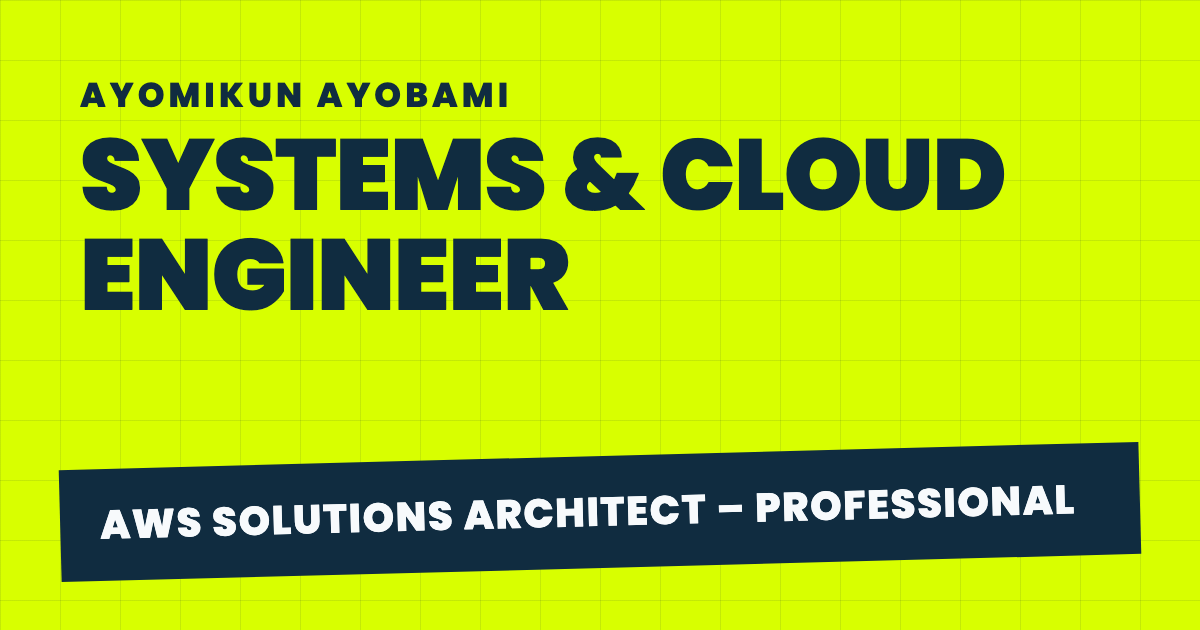
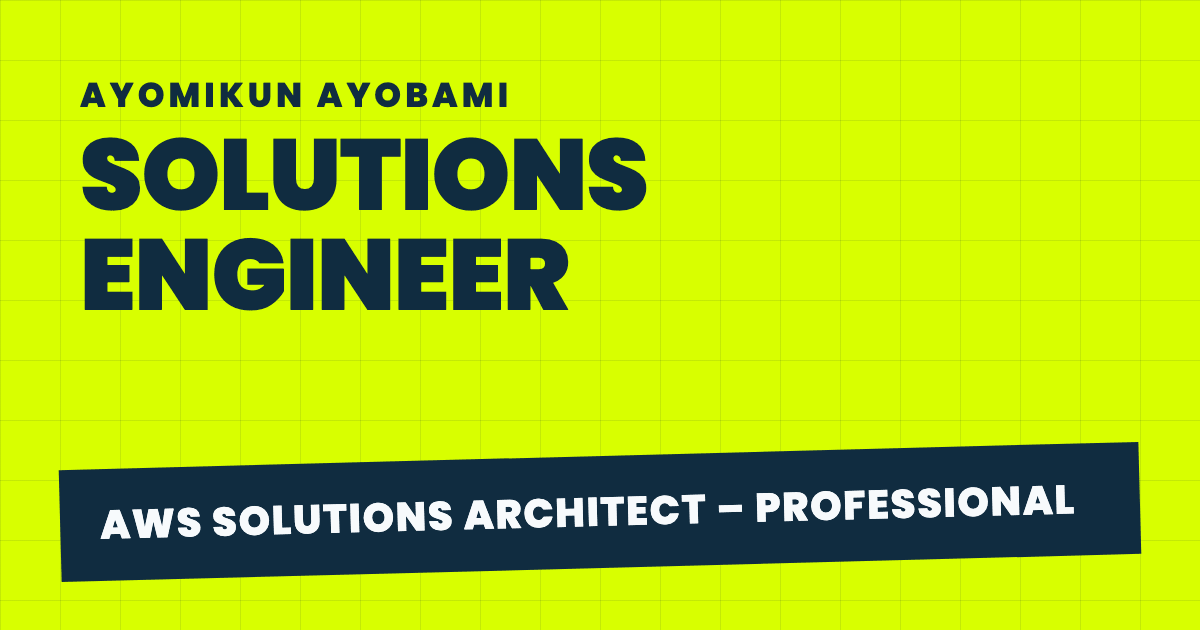
content: position the site around the Solutions Engineer role

Changed region(s): [[0.1233, 0.2111, 0.8633, 0.3317]]

diff --git a/src/content/copy.ts b/src/content/copy.ts
@@ -3,7 +3,7 @@ import type { SectionId } from './types';
 
 // Every user-facing string lives here so it can be edited without touching components.
 // Name, title, email and links come from SITE and are not repeated.
-export type FocusId = 'cloud' | 'systems' | 'platform' | 'backend';
+export type FocusId = 'solutions' | 'cloud' | 'systems' | 'platform' | 'backend';
 export type ProofId = 'production' | 'certs' | 'incidents' | 'code' | 'clients';
 export type DiagramNodeId =
   | 'camera'
@@ -17,11 +17,11 @@ export type DiagramNodeId =
 
 export const COPY = {
   seo: {
-    description: `${SITE.name} is a remote Systems and Cloud Engineer building reliable AWS and Linux infrastructure.`,
+    description: `${SITE.name} is a remote Solutions Engineer who designs AWS architectures for clients and builds them, from Terraform to production backends.`,
   },
 
   hero: {
-    headline: 'I design and run the infrastructure behind real products.',
+    headline: 'I turn business problems into AWS architectures, then build them.',
     credentialLine:
       'AWS Solutions Architect – Professional · Solution Engineer at an AWS Advanced Tier Partner',
     certBadgeLabel: 'Certified',
@@ -58,6 +58,7 @@ export const COPY = {
     focus: {
       question: 'What are you hiring for?',
       options: {
+        solutions: 'Solutions Engineer / pre-sales',
         cloud: 'Cloud infrastructure',
         systems: 'Systems & networking',
         platform: 'Platform / DevOps',
@@ -83,6 +84,8 @@ export const COPY = {
   // The result pitch is one focus line plus one proof line.
   pitch: {
     focus: {
+      solutions:
+        'At an AWS Advanced Tier Partner I design AWS architectures for customers, estimate their running costs and write the technical proposals (20+ so far). Then I build what I propose: Terraform across 20+ production client deployments and a full camera-to-cloud platform.',
       cloud:
         'I run AWS infrastructure as code: Terraform and CloudFormation across 20+ production client deployments, and a full camera-to-cloud platform on ECS Fargate, S3, Kinesis Video Streams and Rekognition.',
       systems:
@@ -106,7 +109,7 @@ export const COPY = {
   },
 
   mascot: {
-    intro: "Hey! Hiring for cloud? Let me show you what I've built.",
+    intro: "Hey! Hiring a Solutions Engineer? Let me show you what I've built.",
     focus: 'Two quick questions and I will line up the right proof.',
     proof: 'Nearly there. What would make you pick up the phone?',
     result: 'That is your match. The rest of the page is right below.',

diff --git a/tests/unit/quiz.test.ts b/tests/unit/quiz.test.ts
@@ -11,16 +11,23 @@ import {
   type ProofPreference,
 } from '../../src/lib/quiz';
 
-const FOCUSES: HiringFocus[] = ['cloud', 'systems', 'platform', 'backend'];
+const FOCUSES: HiringFocus[] = ['solutions', 'cloud', 'systems', 'platform', 'backend'];
 const PROOFS: ProofPreference[] = ['production', 'certs', 'incidents', 'code', 'clients'];
 
 test('incidents for cloud leads with Olympus then experience', () => {
   expect(orderSections({ focus: 'cloud', proof: 'incidents' })).toEqual(
-    ['hero','olympus-vision','experience','careomni','projects','certifications','skills','writing','testimonials','contact']);
+    ['hero','olympus-vision','experience','careomni','testimonials','certifications','projects','skills','writing','contact']);
 });
 test('clients puts the testimonials straight after the hero, then experience', () => {
   expect(orderSections({ focus: 'platform', proof: 'clients' }).slice(0, 3)).toEqual(['hero', 'testimonials', 'experience']);
   expect(parseAnswers('?for=platform&proof=clients')).toEqual({ focus: 'platform', proof: 'clients' });
+});
+test('solutions is a valid focus and leads with Olympus Vision', () => {
+  expect(parseAnswers('?for=solutions&proof=clients')).toEqual({ focus: 'solutions', proof: 'clients' });
+  expect(orderSections({ focus: 'solutions', proof: 'production' }).slice(1, 3)).toEqual(['olympus-vision', 'careomni']);
+});
+test('the page leads with the work, then the current role and client proof', () => {
+  expect(DEFAULT_SECTION_ORDER).toEqual(['hero', 'olympus-vision', 'careomni', 'experience', 'testimonials', 'certifications', 'projects', 'skills', 'writing', 'contact']);
 });
 test('backend + production puts CareOmni before Olympus', () => {
   expect(orderSections({ focus: 'backend', proof: 'production' }).slice(1, 4)).toEqual(['careomni','olympus-vision','projects']);

diff --git a/tests/e2e/quiz.spec.ts b/tests/e2e/quiz.spec.ts
@@ -14,6 +14,14 @@ test('full flow tailors the page and keeps every section', async ({ page }) => {
   expect(ids).toHaveLength(DEFAULT_SECTION_ORDER.length);
   await expect(page).toHaveURL(/\?for=backend&proof=production$/);
 });
+test('a Solutions Engineer recruiter gets the solutions pitch', async ({ page }) => {
+  await page.goto('/');
+  await page.getByRole('button', { name: 'Show me why (30 sec)' }).click();
+  await page.getByRole('button', { name: 'Solutions Engineer / pre-sales' }).click();
+  await page.getByRole('button', { name: 'What clients say' }).click();
+  await expect(page.locator('[data-pitch]')).toContainText('AWS Advanced Tier Partner');
+  await expect(page).toHaveURL(/\?for=solutions&proof=clients$/);
+});
 test('choosing "What clients say" leads with the client testimonials', async ({ page }) => {
   await page.goto('/');
   await page.getByRole('button', { name: 'Show me why (30 sec)' }).click();
@@ -99,7 +107,7 @@ test('result tags the matched sections; start over restores the default page', a
   await expect(page.locator('[data-match-tag]:not(:empty)')).toHaveCount(0);
   await expect(page).toHaveURL(/\/$/);
   const ids = await page.locator('main > section').evaluateAll(s => s.map(e => e.id));
-  expect(ids).toEqual(['hero', 'olympus-vision', 'careomni', 'projects', 'experience', 'certifications', 'skills', 'writing', 'testimonials', 'contact']);
+  expect(ids).toEqual(['hero', 'olympus-vision', 'careomni', 'experience', 'testimonials', 'certifications', 'projects', 'skills', 'writing', 'contact']);
 });
 test('back from the result returns to the proof question with the default order', async ({ page }) => {
   await page.goto('/?for=backend&proof=production');

diff --git a/tests/unit/content.test.ts b/tests/unit/content.test.ts
@@ -43,9 +43,13 @@ test('four Medium articles, newest first', () => {
   expect(ARTICLES).toHaveLength(4);
   expect(ARTICLES.map((a) => a.date)).toEqual([...ARTICLES.map((a) => a.date)].sort().reverse());
 });
-test('four skill groups and education', () => {
-  expect(SKILLS.map((g) => g.name)).toEqual(['Cloud', 'IaC & delivery', 'Networking', 'Backend']);
+test('five skill groups, solutions first, and education', () => {
+  expect(SKILLS.map((g) => g.name)).toEqual(['Solutions', 'Cloud', 'IaC & delivery', 'Networking', 'Backend']);
   expect(EDUCATION.grade).toBe('4.39 / 5.0');
+});
+test('the Arthurite role shows the solutions work from the resume', () => {
+  const arthurite = ROLES.find((r) => r.org === 'Arthurite Integrated')!.points.join(' ');
+  for (const fact of ['running-cost estimates', 'technical specifications', 'ONE WITH AI']) expect(arthurite).toContain(fact);
 });
 test('the NOC internship lists its networking work, monitored with SolarWinds', () => {
   const noc = ROLES.find((r) => r.label === 'Internship')!;
@@ -61,7 +65,7 @@ test('education lists the university leadership roles', () => {
 });
 test('copy has a band line per section and a pitch per answer', () => {
   expect(Object.keys(COPY.bands).sort()).toEqual([...DEFAULT_SECTION_ORDER].sort());
-  expect(Object.keys(COPY.pitch.focus)).toHaveLength(4);
+  expect(Object.keys(COPY.pitch.focus)).toHaveLength(5);
   expect(Object.keys(COPY.pitch.proof)).toHaveLength(5);
   expect(Object.keys(COPY.quiz.proof.options)).toHaveLength(5);
   expect(Object.keys(COPY.diagram)).toHaveLength(8);

diff --git a/src/lib/quiz.ts b/src/lib/quiz.ts
@@ -8,11 +8,11 @@ import {
 } from '../content/quizConfig';
 import type { SectionId } from '../content/types';
 
-export type HiringFocus = 'cloud' | 'systems' | 'platform' | 'backend';
+export type HiringFocus = 'solutions' | 'cloud' | 'systems' | 'platform' | 'backend';
 export type ProofPreference = 'production' | 'certs' | 'incidents' | 'code' | 'clients';
 export type Answers = { focus: HiringFocus; proof: ProofPreference };
 
-const HIRING_FOCUSES: readonly HiringFocus[] = ['cloud', 'systems', 'platform', 'backend'];
+const HIRING_FOCUSES: readonly HiringFocus[] = ['solutions', 'cloud', 'systems', 'platform', 'backend'];
 const PROOF_PREFERENCES: readonly ProofPreference[] = ['production', 'certs', 'incidents', 'code', 'clients'];
 
 const FEATURED_SECTIONS: readonly SectionId[] = ['olympus-vision', 'careomni'];

diff --git a/src/content/quizConfig.ts b/src/content/quizConfig.ts
@@ -6,12 +6,13 @@ export const DEFAULT_SECTION_ORDER: SectionId[] = [
   'hero',
   'olympus-vision',
   'careomni',
-  'projects',
+  // Solutions roles hire on the current client-facing job and what clients say, so both come early.
   'experience',
+  'testimonials',
   'certifications',
+  'projects',
   'skills',
   'writing',
-  'testimonials',
   'contact',
 ];
 
@@ -30,6 +31,7 @@ export const PROOF_PRIORITY: Record<ProofPreference, SectionId[]> = {
 
 /** Which featured project leads when both are shown, based on what the recruiter hires for. */
 export const FOCUS_LEAD: Record<HiringFocus, 'olympus-vision' | 'careomni'> = {
+  solutions: 'olympus-vision',
   cloud: 'olympus-vision',
   systems: 'olympus-vision',
   platform: 'olympus-vision',

diff --git a/tests/e2e/seo.spec.ts b/tests/e2e/seo.spec.ts
@@ -4,7 +4,7 @@ import { SITE_URL } from '../../site-url.mjs';
 test('home page head is SEO-complete', async ({ page }) => {
   await page.goto('/');
   await expect(page.locator('h1')).toHaveCount(1);
-  await expect(page).toHaveTitle(/Ayomikun Ayobami.*Systems & Cloud Engineer/);
+  await expect(page).toHaveTitle(/Ayomikun Ayobami.*Solutions Engineer/);
   for (const sel of ['meta[name="description"]', 'link[rel="canonical"]', 'meta[property="og:image"]', 'meta[property="og:image:width"][content="1200"]', 'meta[property="og:image:height"][content="630"]', 'meta[property="og:image:alt"]', 'meta[name="twitter:image:alt"]', 'meta[name="twitter:card"]', 'script[type="application/ld+json"]'])
     await expect(page.locator(sel)).toHaveCount(1);
 });

diff --git a/src/config/site.ts b/src/config/site.ts
@@ -1,7 +1,7 @@
 // Identity and contact details used across the site (head tags, JSON-LD, contact links).
 export const SITE = {
   name: 'Ayomikun Ayobami',
-  title: 'Systems & Cloud Engineer',
+  title: 'Solutions Engineer',
   email: 'ayobamitunmise99@gmail.com',
   /** Shown only on the downloadable CV, not on the page itself. */
   phone: '+234 806 116 9617',
@@ -9,7 +9,7 @@ export const SITE = {
   cvPath: '/Ayomikun-Ayobami-CV.pdf',
   /** Where you're based, for the CV header. */
   basedIn: 'Nigeria',
-  mailSubject: 'Call about a Systems / Cloud Engineer role',
+  mailSubject: 'Call about a Solutions Engineer role',
   location: 'Remote',
   links: {
     github: 'https://github.com/AyoBDev',

diff --git a/tests/unit/structuredData.test.ts b/tests/unit/structuredData.test.ts
@@ -13,7 +13,7 @@ describe('buildPersonJsonLd', () => {
     const ld = buildPersonJsonLd(SITE, CERTS_FIXTURE, 'https://example.pages.dev') as any;
     expect(ld['@type']).toBe('Person');
     expect(ld.name).toBe('Ayomikun Ayobami');
-    expect(ld.jobTitle).toBe('Systems & Cloud Engineer');
+    expect(ld.jobTitle).toBe('Solutions Engineer');
     expect(ld.url).toBe('https://example.pages.dev/');
     expect(ld.sameAs).toEqual(expect.arrayContaining([SITE.links.github, SITE.links.linkedin, SITE.links.upwork, SITE.links.medium]));
     expect(ld.hasCredential.map((c: any) => c.name)).toContain('AWS Certified Solutions Architect – Professional');

diff --git a/src/content/experience.ts b/src/content/experience.ts
@@ -9,6 +9,9 @@ export const ROLES: Role[] = [
     end: 'present',
     points: [
       'AWS Advanced Tier Partner',
+      'AWS architecture design for customers, with running-cost estimates',
+      'Business problem statements turned into technical specifications',
+      "Organised the 'ONE WITH AI: Powering EV Ecosystems with AWS' summit (June 2026)",
       'Terraform and CloudFormation across 20+ production client deployments',
       'dev/staging/prod environments with GitOps',
       'Provisioning time cut 50–70%',

diff --git a/src/content/skills.ts b/src/content/skills.ts
@@ -2,6 +2,16 @@ import type { SkillGroup } from './types';
 
 export const SKILLS: SkillGroup[] = [
   {
+    name: 'Solutions',
+    items: [
+      'AWS solution architecture',
+      'Cost estimation',
+      'Technical proposals',
+      'Requirements to specifications',
+      'Client delivery',
+    ],
+  },
+  {
     name: 'Cloud',
     items: [
       'AWS',

diff --git a/scripts/og.html b/scripts/og.html
@@ -41,7 +41,7 @@
 </head>
 <body>
   <p class="byline">Ayomikun Ayobami</p>
-  <h1 class="headline">Systems &amp; Cloud Engineer</h1>
+  <h1 class="headline">Solutions Engineer</h1>
   <p class="band">AWS Solutions Architect &ndash; Professional</p>
 </body>
 </html>
